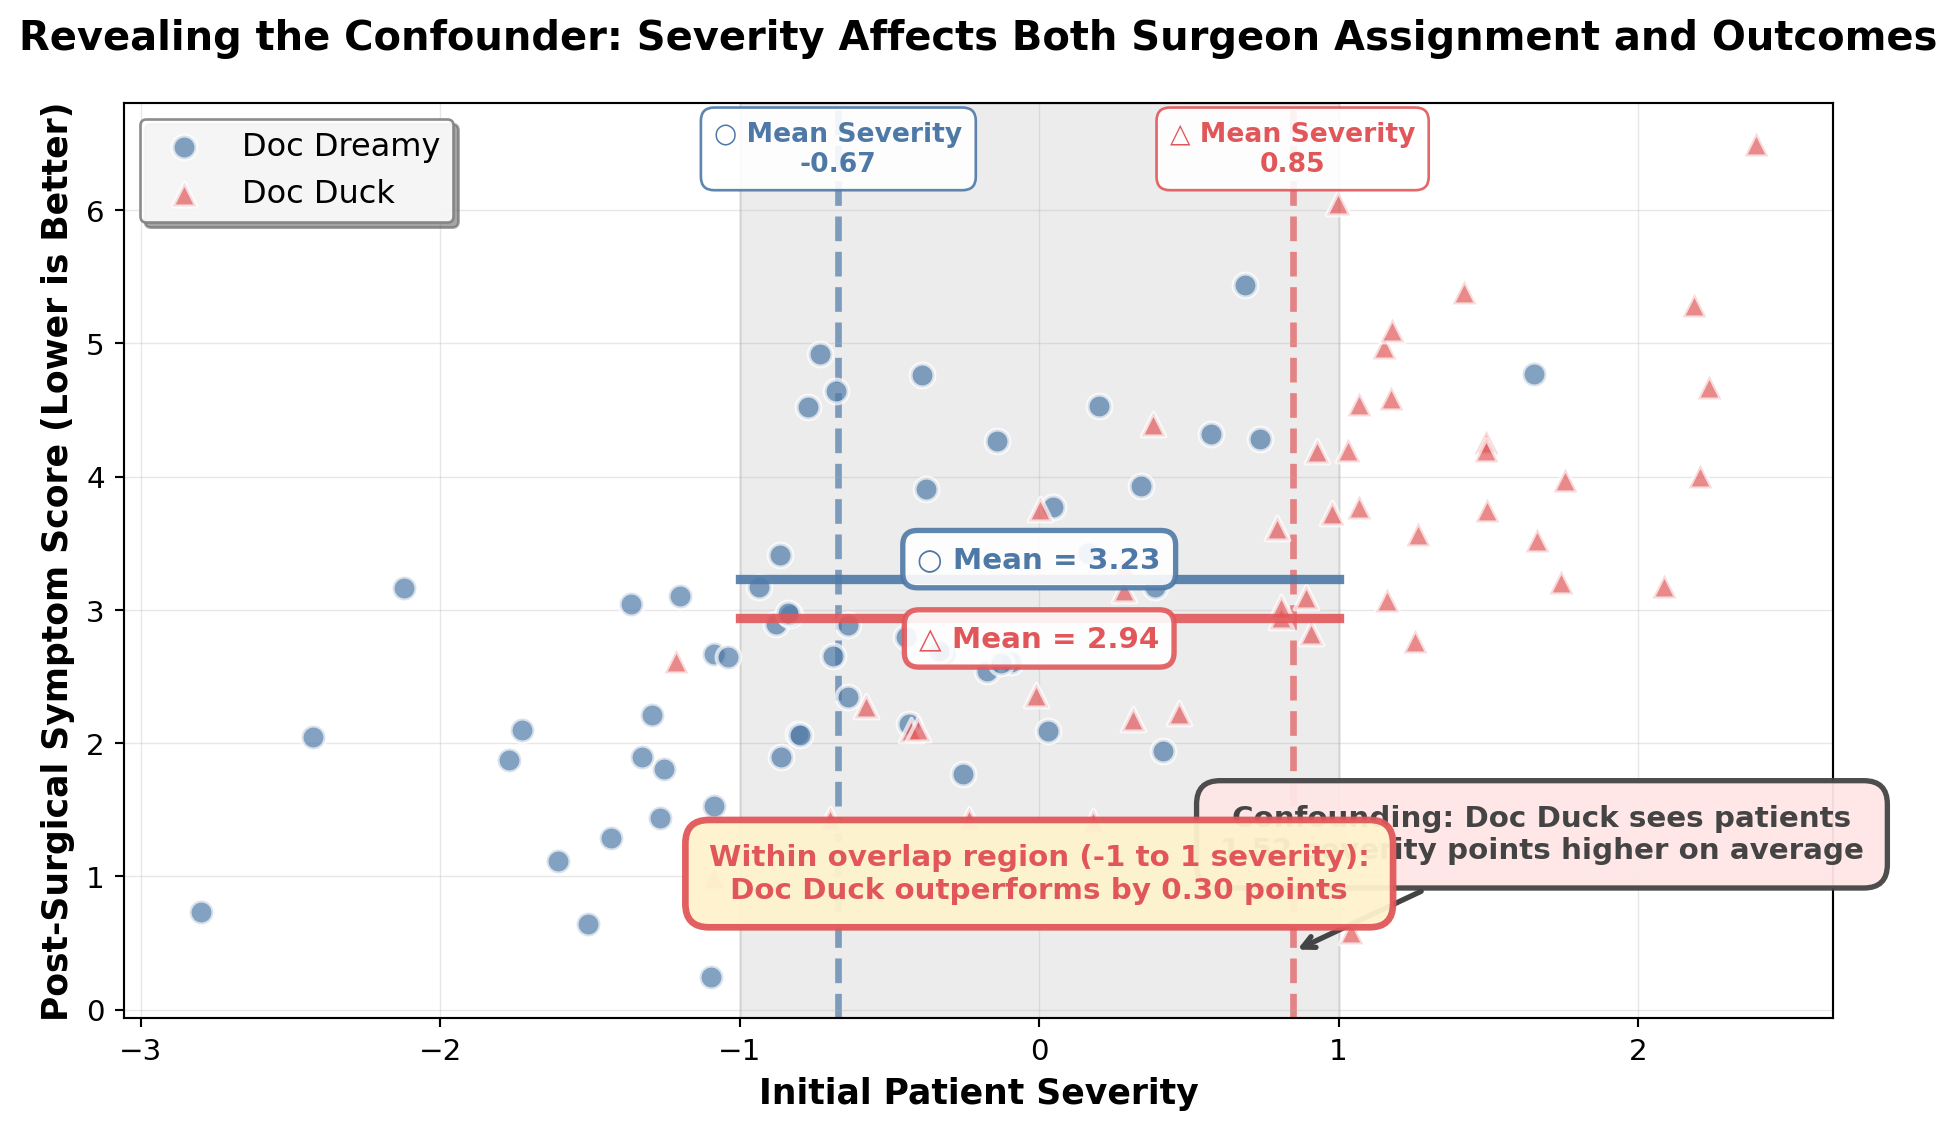
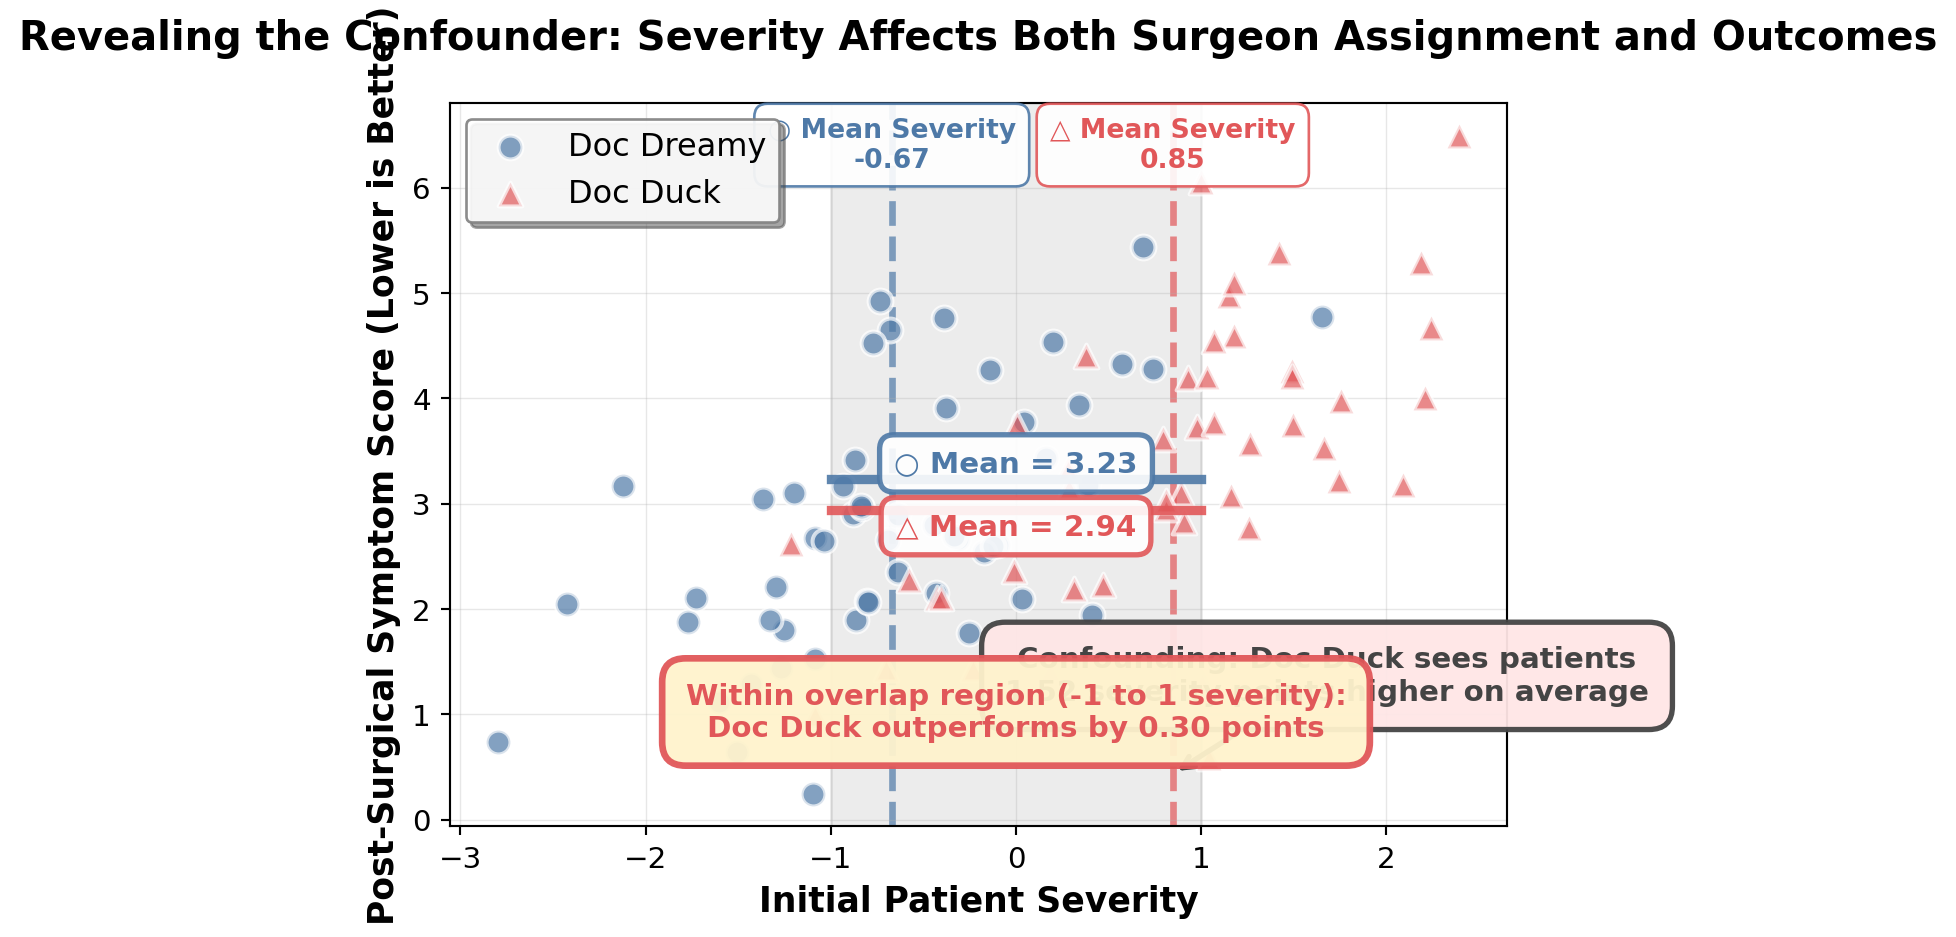
updated index.html output

diff --git a/index.html b/index.html
@@ -144,7 +144,7 @@ window.Quarto = {
 <div class="cell-output cell-output-stdout">
 <pre><code>Number of patients: 100</code></pre>
 </div>
-<div id="load-data-python" class="cell-output cell-output-display" data-execution_count="2">
+<div id="load-data-python" class="cell-output cell-output-display" data-execution_count="16">
 <div>
 
 
@@ -212,7 +212,7 @@ window.Quarto = {
 <div id="fig-plot-outcomes" class="quarto-float quarto-figure quarto-figure-center anchored">
 <figure class="quarto-float quarto-float-fig figure">
 <div aria-describedby="fig-plot-outcomes-caption-0ceaefa1-69ba-4598-a22c-09a6ac19f8ca">
-<img src="index_files/figure-html/fig-plot-outcomes-output-1.png" width="944" height="565" class="figure-img">
+<img src="index_files/figure-html/fig-plot-outcomes-output-1.png" width="662" height="469" class="figure-img">
 </div>
 <figcaption class="quarto-float-caption-bottom quarto-float-caption quarto-float-fig" id="fig-plot-outcomes-caption-0ceaefa1-69ba-4598-a22c-09a6ac19f8ca">
 Figure&nbsp;1: Post-Surgical Symptom Score (lower is better) - Observed Data
@@ -296,7 +296,7 @@ Figure&nbsp;4: DAG Model Explaining Surgical Outcomes
 <p>Unfortunately, we can’t observe what didn’t happen. The patients we already observed went to the surgeon they chose (or who was available), and we’ll never know their outcomes under the alternative assignment. This is the fundamental problem of causal inference: we only see one world, not the parallel universe where everything else was held constant but the treatment differed.</p>
 <p>Since we cannot rerun history with randomization, we run an experiment to collect the data we need. So, we randomly assigned a sequence of 100 patients to either Dr.&nbsp;Dreamy or Dr.&nbsp;Duck and observed the following data:</p>
 <div id="cell-simulate-data-randomized" class="cell" data-message="false" data-execution_count="4">
-<div id="simulate-data-randomized" class="cell-output cell-output-display" data-execution_count="4">
+<div id="simulate-data-randomized" class="cell-output cell-output-display" data-execution_count="18">
 <div>
 
 
@@ -368,7 +368,7 @@ Figure&nbsp;4: DAG Model Explaining Surgical Outcomes
 <div class="cell-output cell-output-stdout">
 <pre><code>Number of randomized patients: 100</code></pre>
 </div>
-<div id="load-data-randomized-python" class="cell-output cell-output-display" data-execution_count="5">
+<div id="load-data-randomized-python" class="cell-output cell-output-display" data-execution_count="19">
 <div>
 
 
@@ -439,7 +439,7 @@ Figure&nbsp;4: DAG Model Explaining Surgical Outcomes
 <div id="fig-plot-outcomes-randomized" class="quarto-float quarto-figure quarto-figure-center anchored">
 <figure class="quarto-float quarto-float-fig figure">
 <div aria-describedby="fig-plot-outcomes-randomized-caption-0ceaefa1-69ba-4598-a22c-09a6ac19f8ca">
-<img src="index_files/figure-html/fig-plot-outcomes-randomized-output-1.png" width="944" height="565" class="figure-img">
+<img src="index_files/figure-html/fig-plot-outcomes-randomized-output-1.png" width="911" height="469" class="figure-img">
 </div>
 <figcaption class="quarto-float-caption-bottom quarto-float-caption quarto-float-fig" id="fig-plot-outcomes-randomized-caption-0ceaefa1-69ba-4598-a22c-09a6ac19f8ca">
 Figure&nbsp;5: Post-Surgical Symptom Score (lower is better) for randomized patients.
@@ -460,7 +460,7 @@ Figure&nbsp;5: Post-Surgical Symptom Score (lower is better) for randomized pati
 <div id="fig-plot-outcomes-severity" class="quarto-float quarto-figure quarto-figure-center anchored">
 <figure class="quarto-float quarto-float-fig figure">
 <div aria-describedby="fig-plot-outcomes-severity-caption-0ceaefa1-69ba-4598-a22c-09a6ac19f8ca">
-<img src="index_files/figure-html/fig-plot-outcomes-severity-output-1.png" width="978" height="565" class="figure-img">
+<img src="index_files/figure-html/fig-plot-outcomes-severity-output-1.png" width="978" height="469" class="figure-img">
 </div>
 <figcaption class="quarto-float-caption-bottom quarto-float-caption quarto-float-fig" id="fig-plot-outcomes-severity-caption-0ceaefa1-69ba-4598-a22c-09a6ac19f8ca">
 Figure&nbsp;6: Post-Surgical Symptom Score (lower is better) by Patient and Severity
